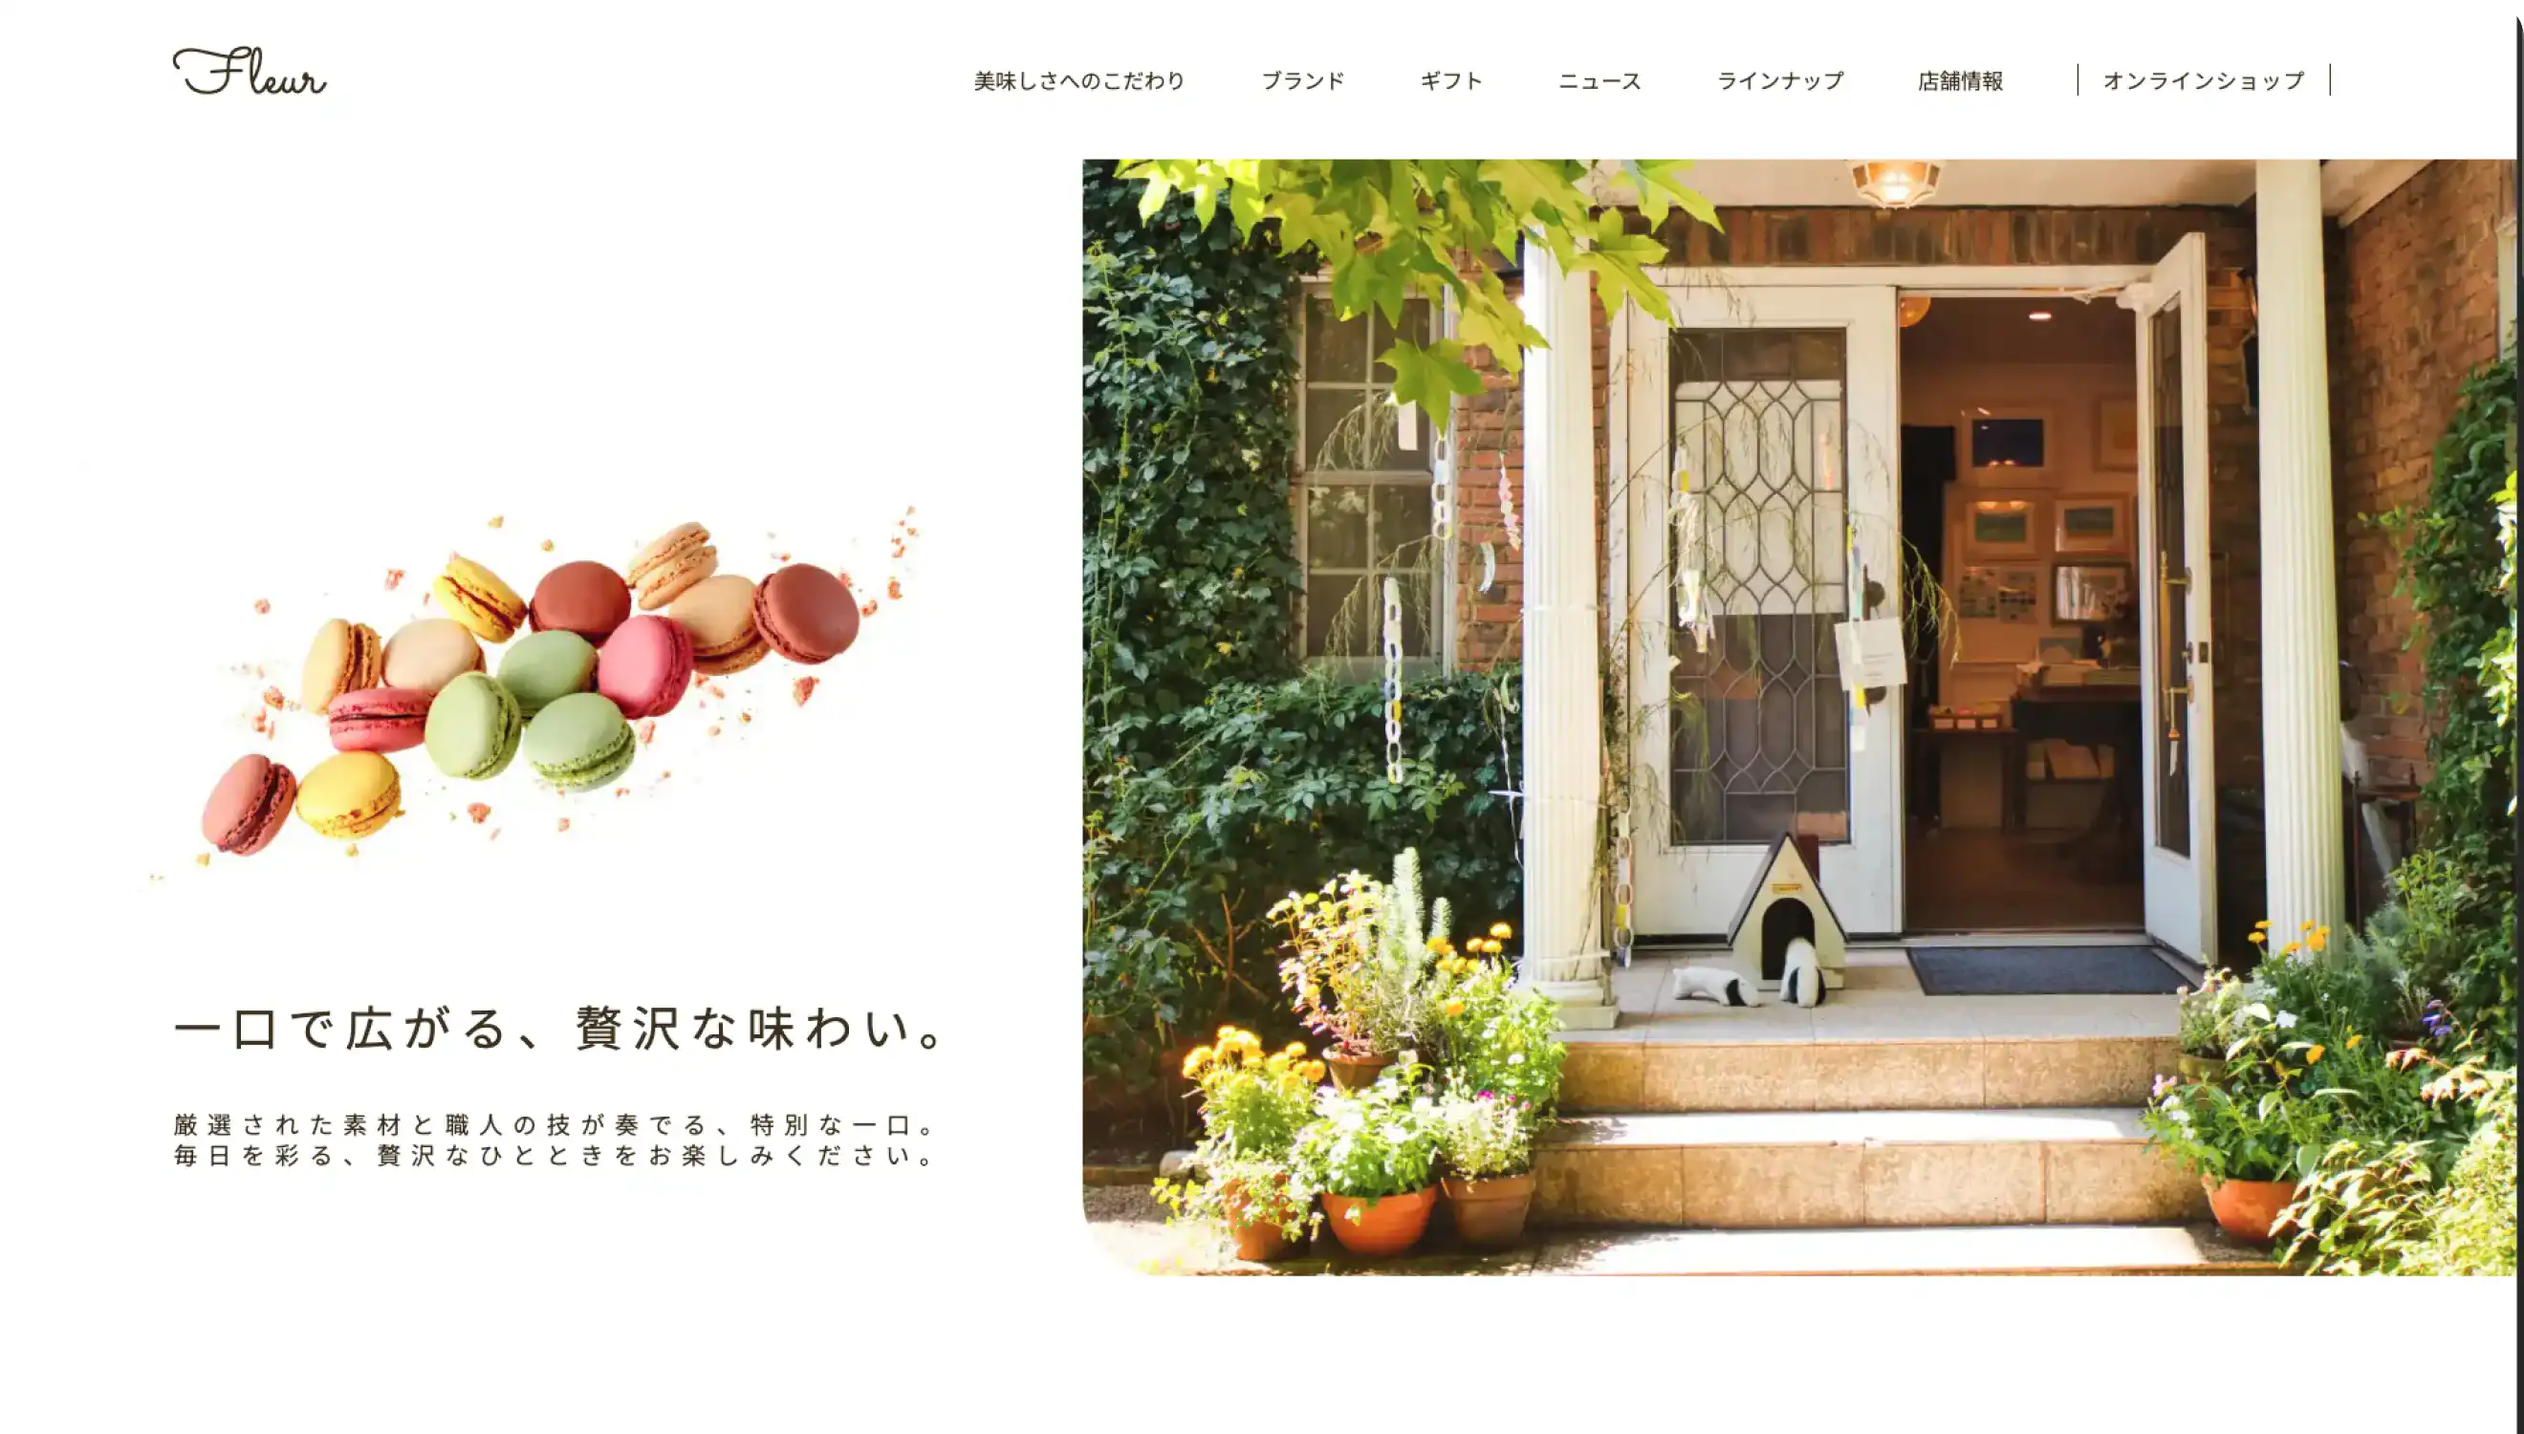
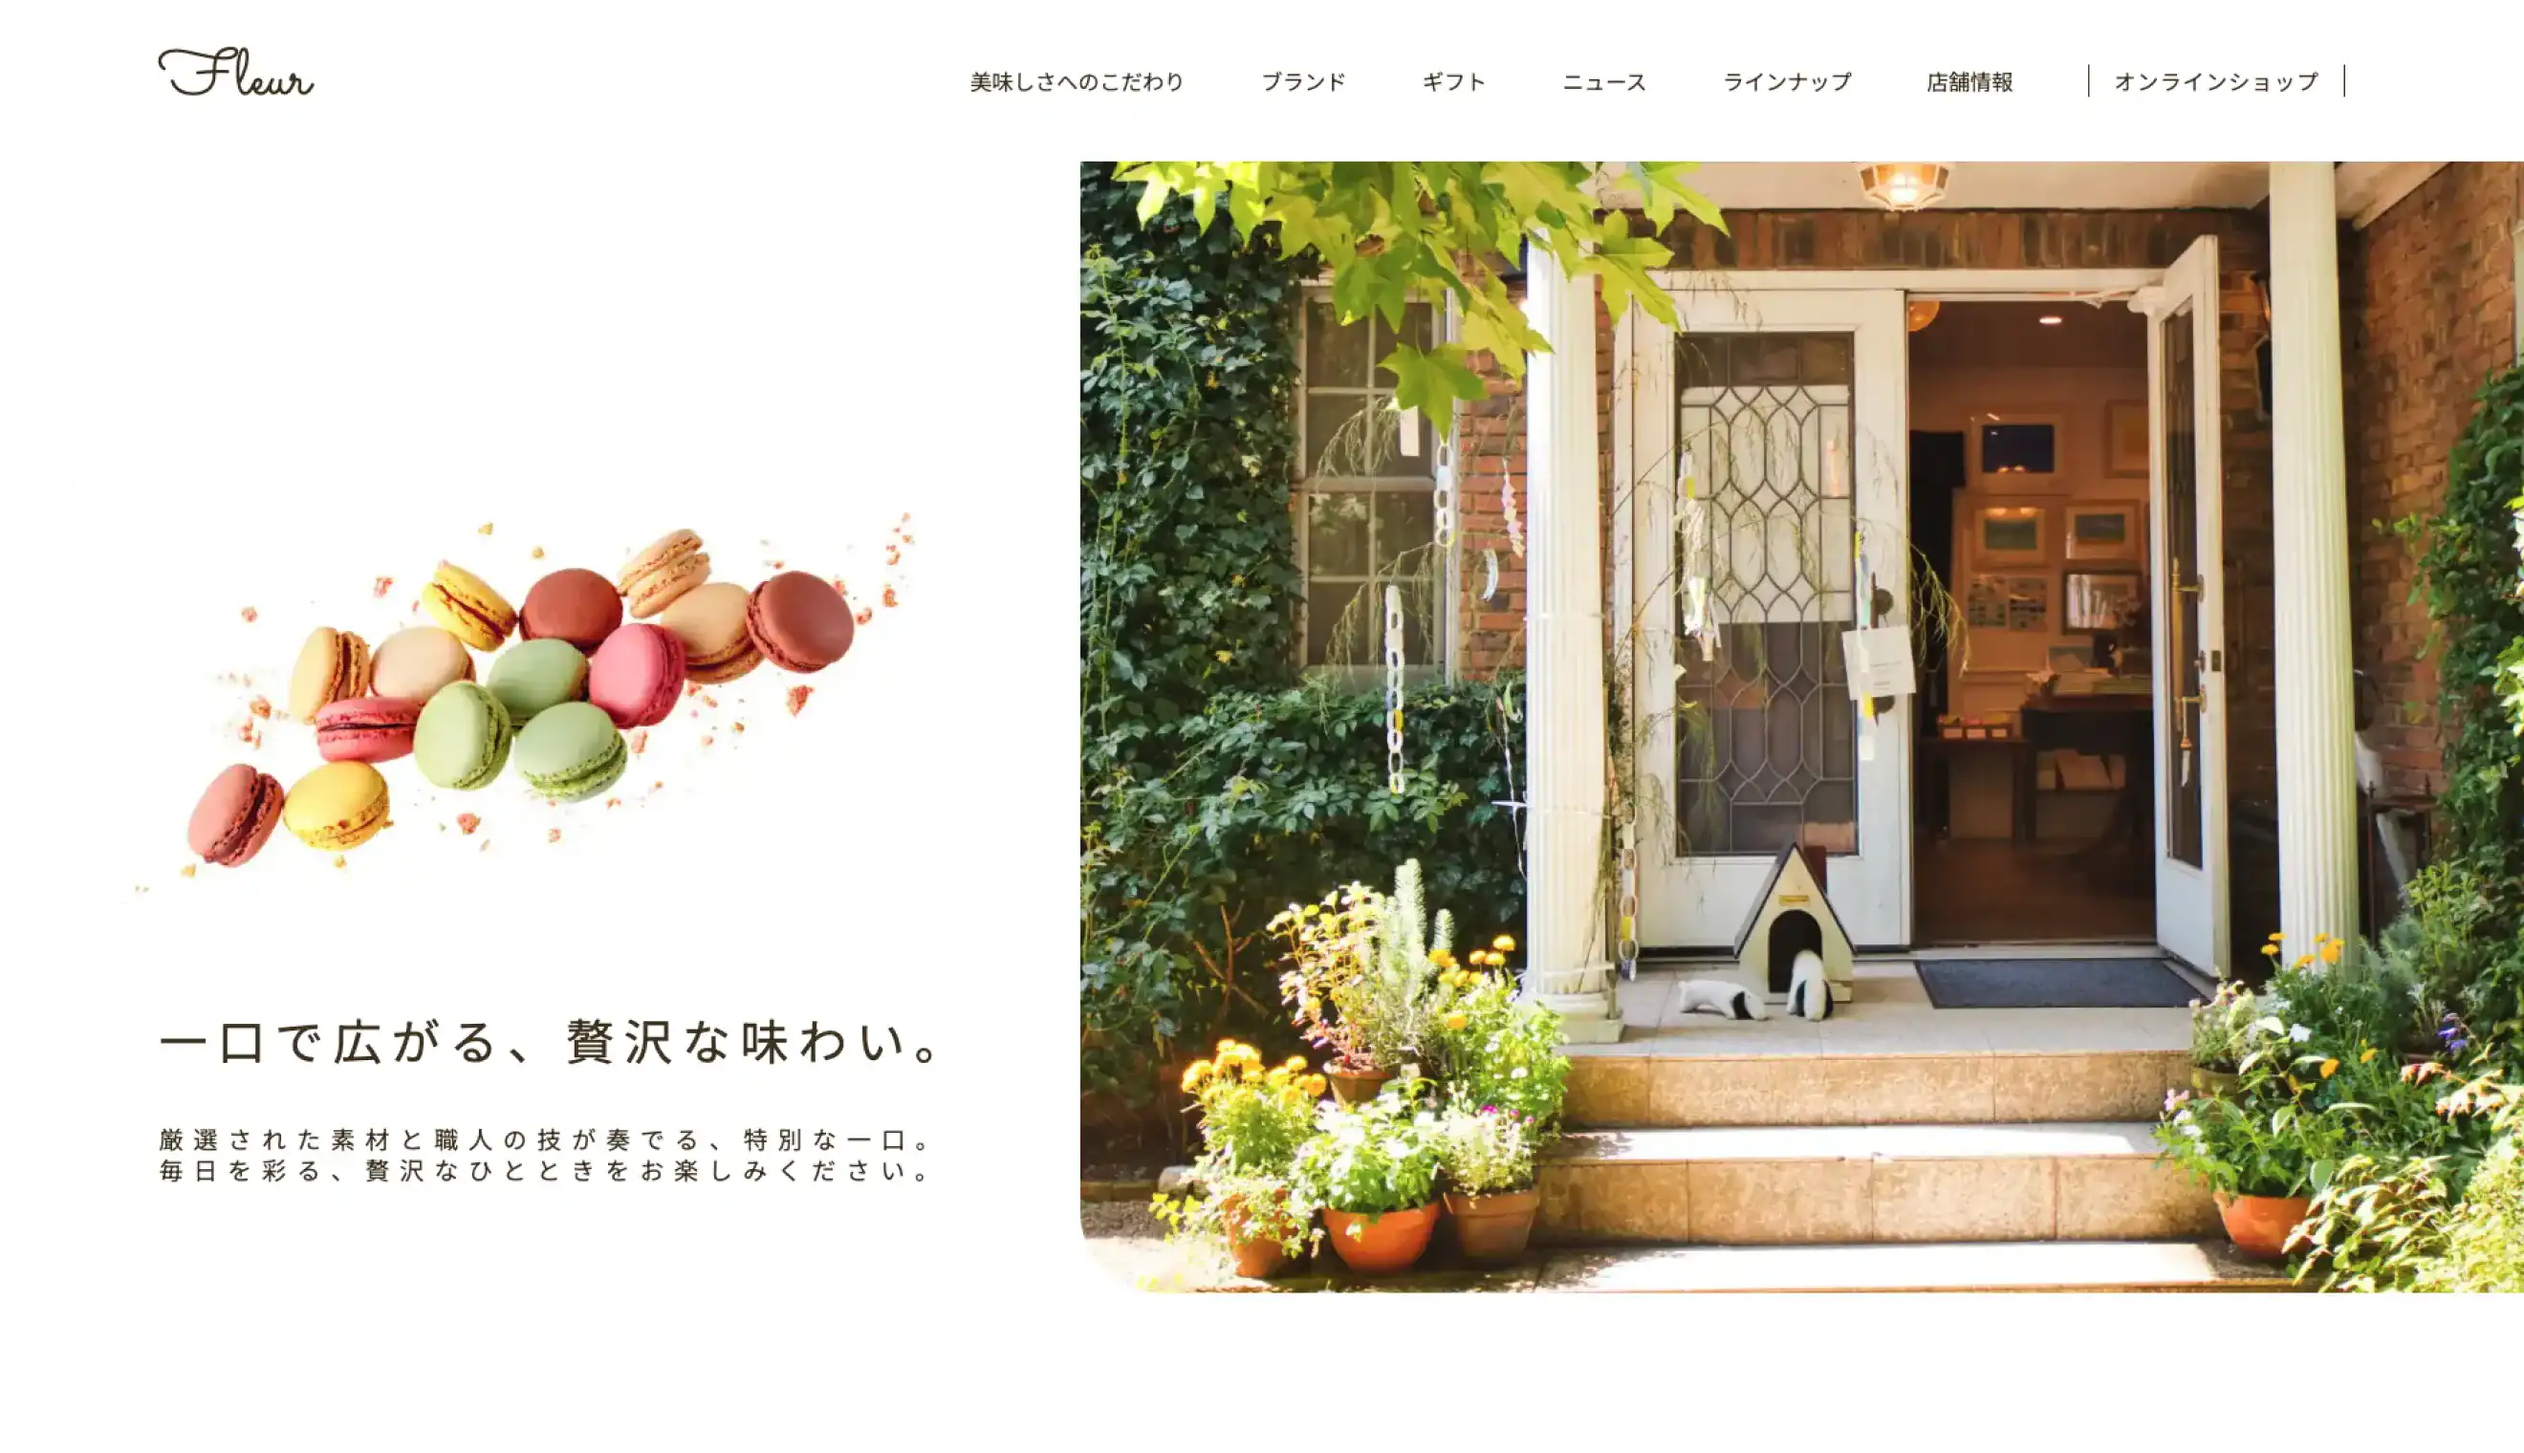
fix: image

diff --git a/src/app/works/fleur/page.tsx b/src/app/works/fleur/page.tsx
@@ -34,7 +34,7 @@ export default function Fleur() {
           <Image
             src={"/fleur-website-screen-shot.webp"}
             width={2640}
-            height={1500}
+            height={1520}
             alt="架空マカロン専門店フルール"
           />
           <hgroup>
